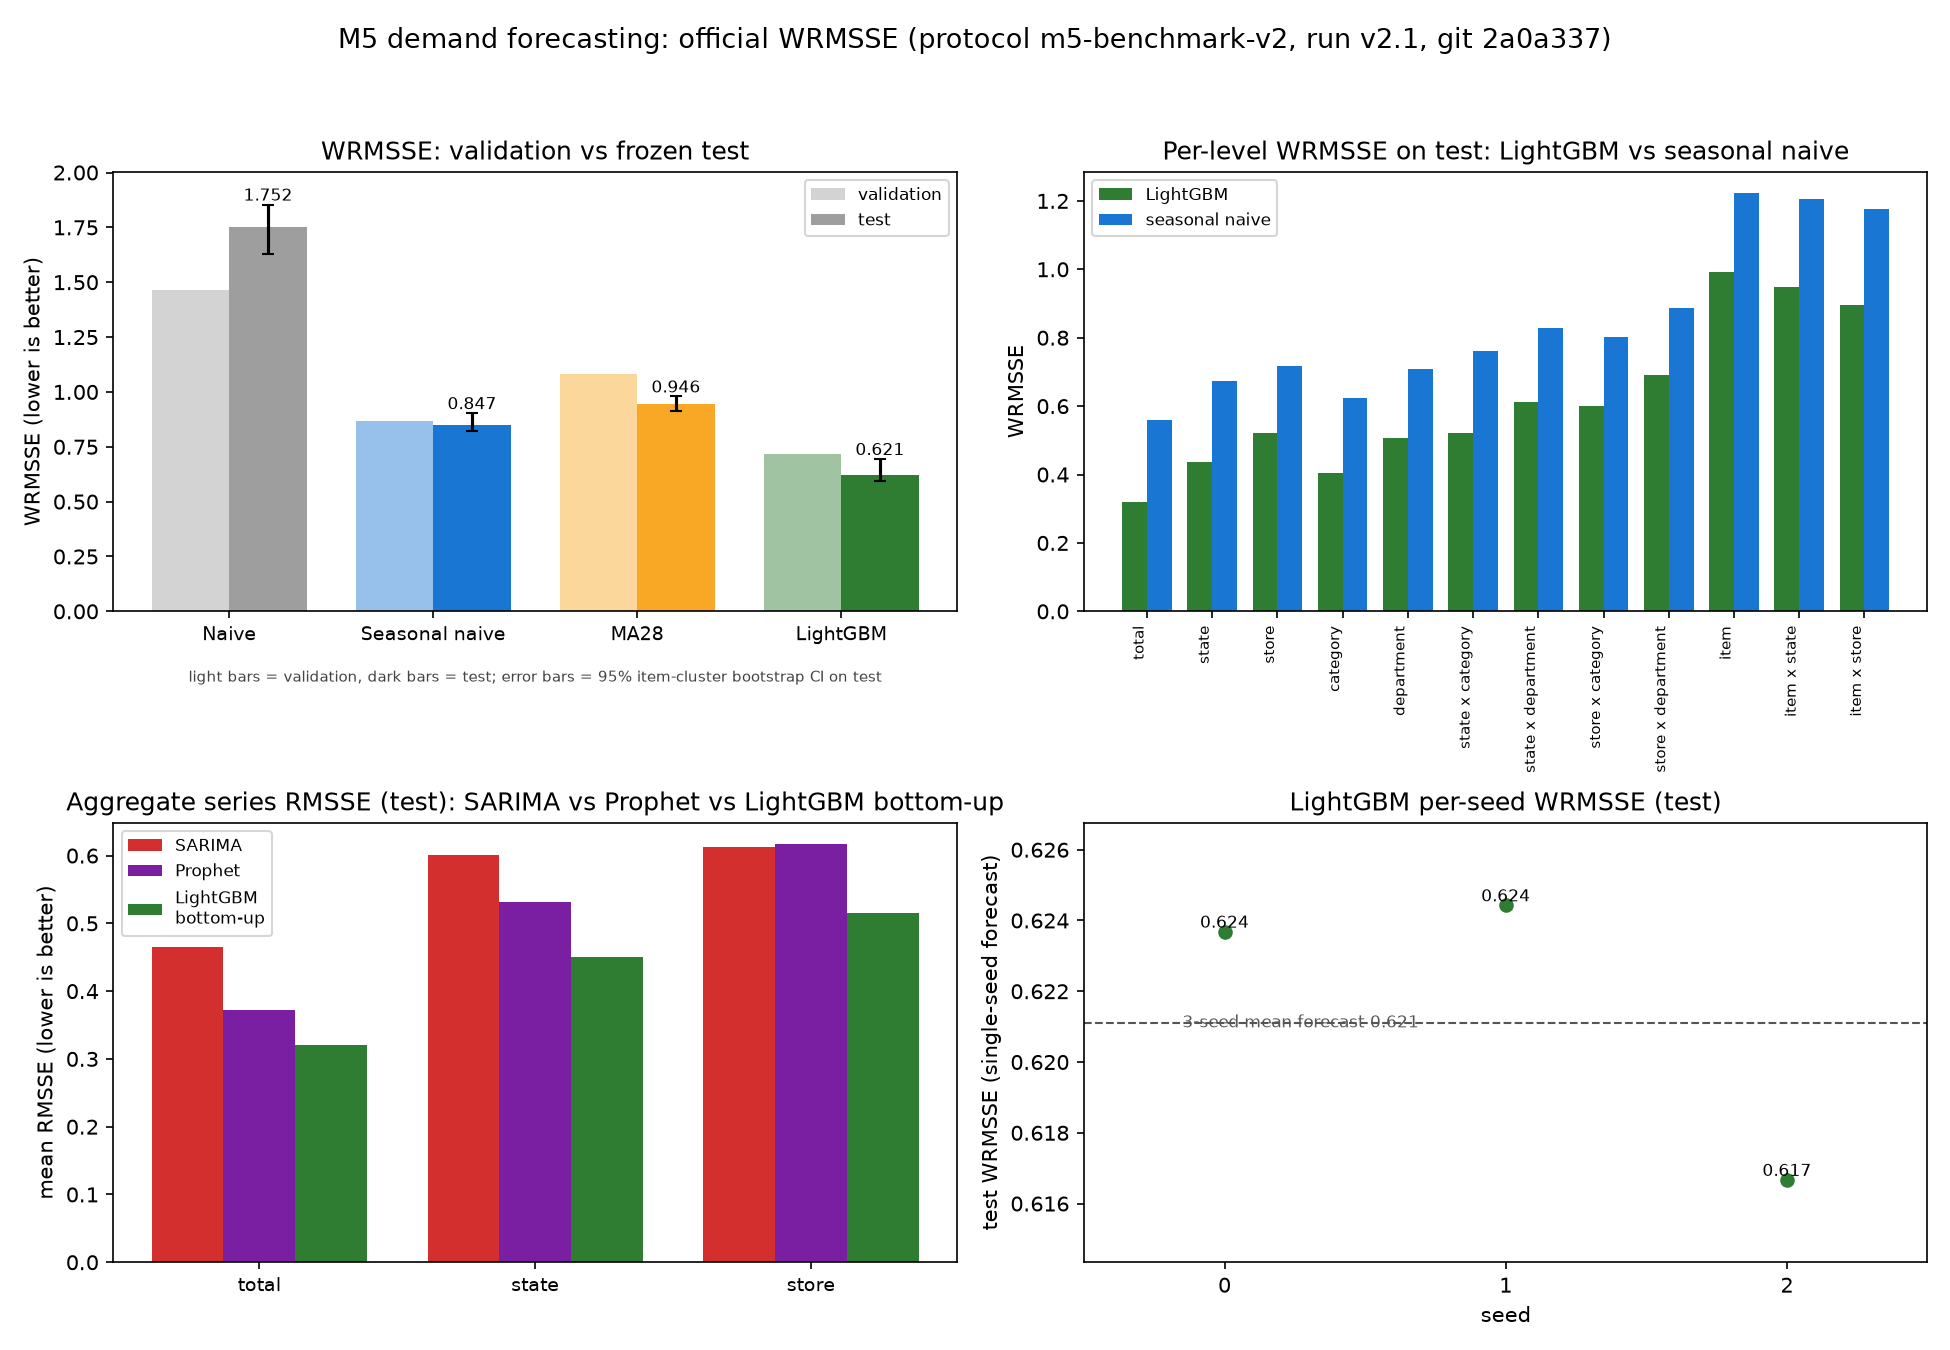
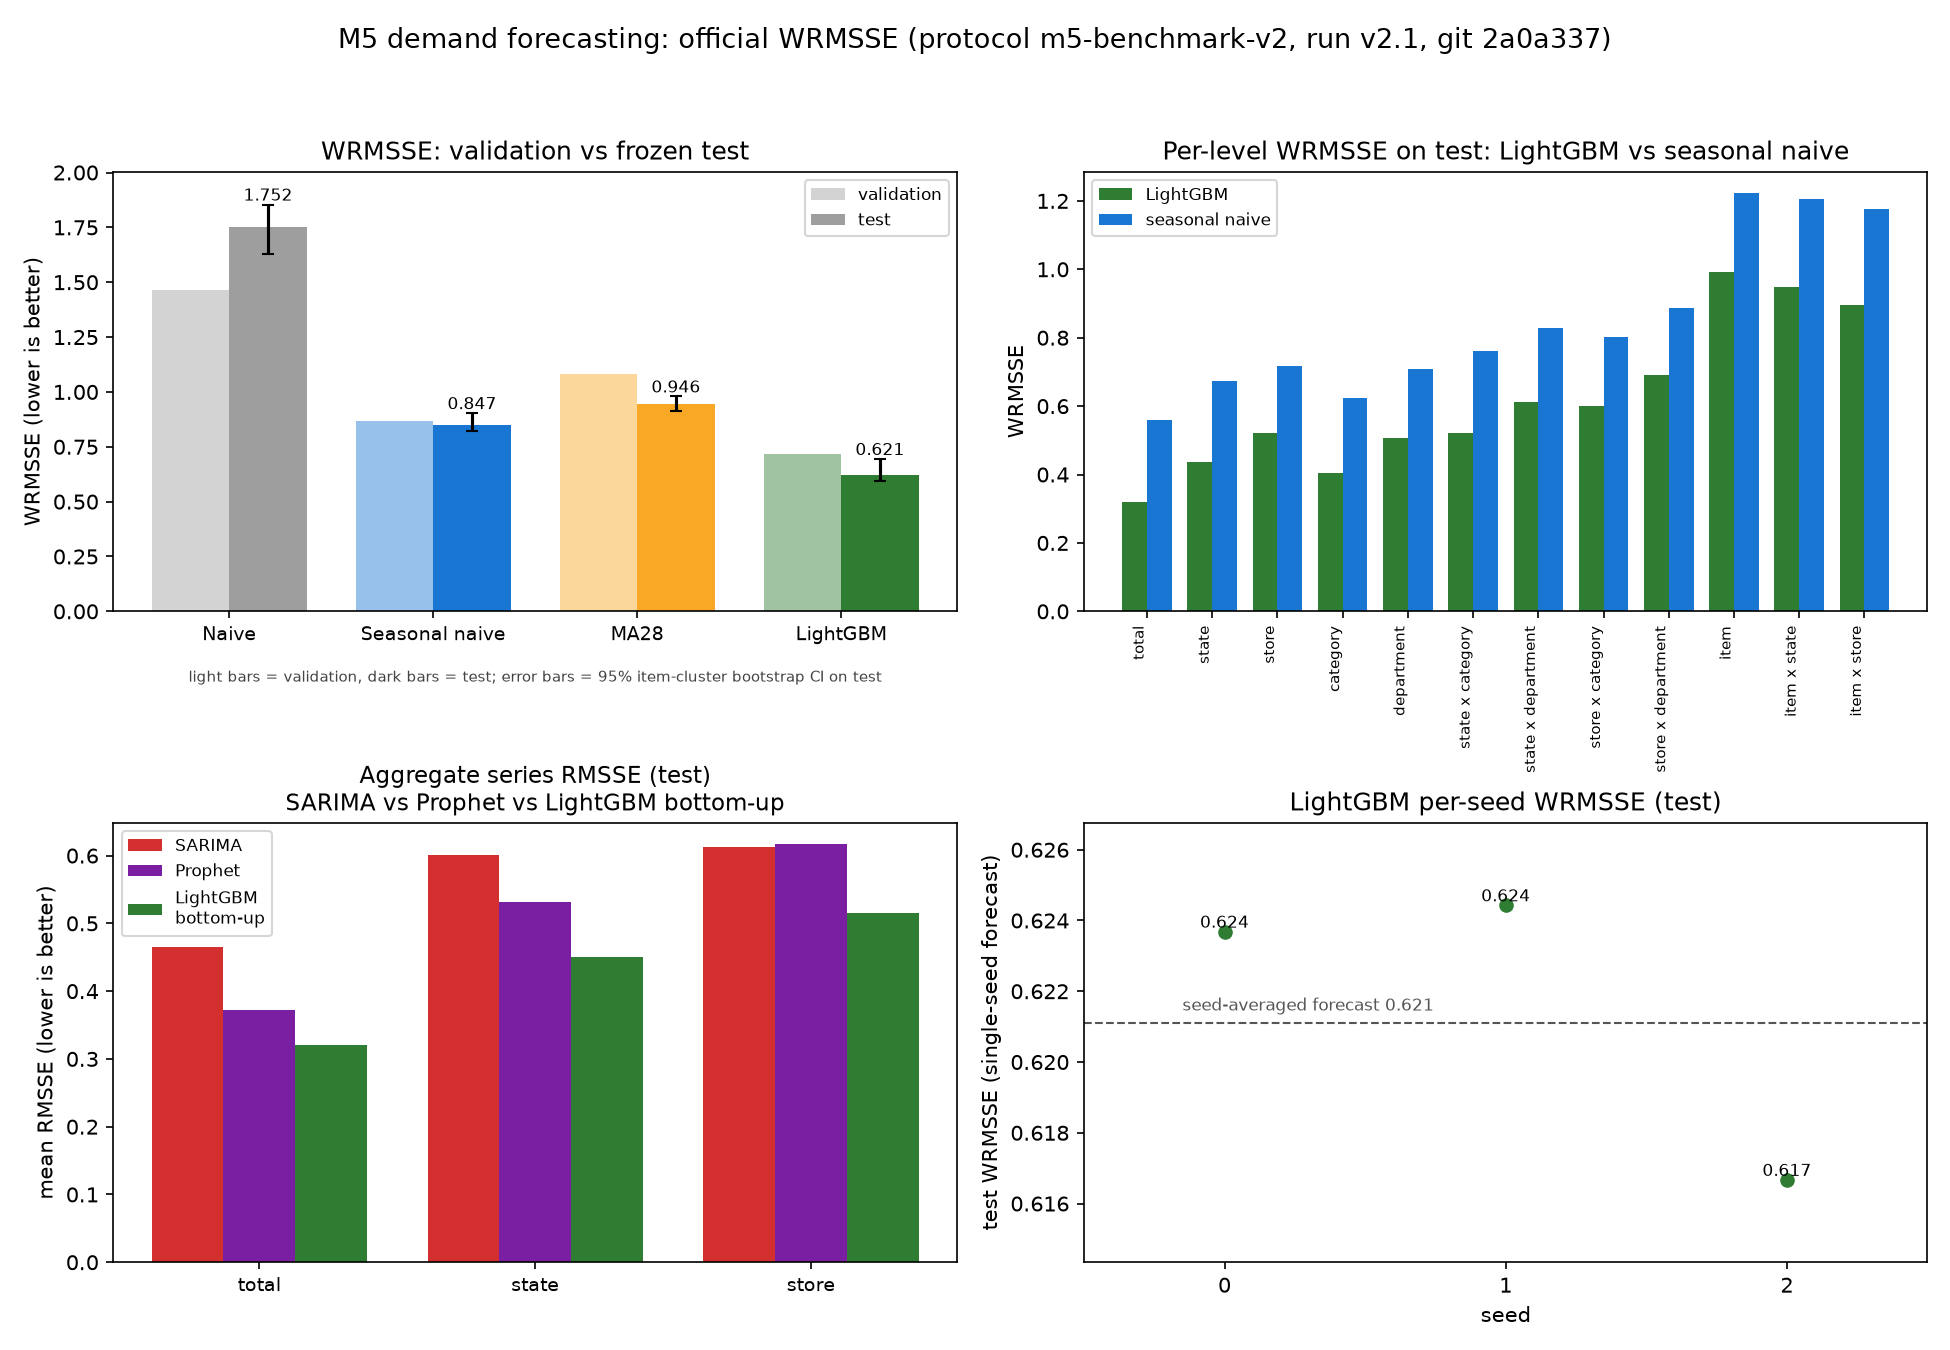
chore(figure): lift panel 4 reference label off the line

Changed region(s): [[0.0308, 0.56, 0.5231, 0.6222], [0.6154, 0.7467, 0.7077, 0.7778]]

diff --git a/scripts/render_figure.py b/scripts/render_figure.py
@@ -150,8 +150,9 @@ def main() -> None:
         ax.set_xticklabels(levels, fontsize=9)
         ax.set_ylabel("mean RMSSE (lower is better)")
         ax.set_title(
-            "Aggregate series RMSSE (test): SARIMA vs Prophet vs "
-            "LightGBM bottom-up"
+            "Aggregate series RMSSE (test)\n"
+            "SARIMA vs Prophet vs LightGBM bottom-up",
+            fontsize=11,
         )
         ax.legend(fontsize=8)
     else:
@@ -171,10 +172,15 @@ def main() -> None:
                     fontsize=8)
         mean_val = float(test["lightgbm"]["wrmsse"])
         ax.axhline(mean_val, color="#555555", ls="--", lw=1)
-        ax.text(
-            xs[0] - 0.15, mean_val,
-            f"3-seed mean forecast {mean_val:.3f}",
-            va="center", ha="left", fontsize=8, color="#555555",
+        ax.annotate(
+            f"seed-averaged forecast {mean_val:.3f}",
+            xy=(xs[0] - 0.15, mean_val),
+            xytext=(0, 4),
+            textcoords="offset points",
+            va="bottom",
+            ha="left",
+            fontsize=8,
+            color="#555555",
         )
         ax.set_xlim(min(xs) - 0.5, max(xs) + 0.5)
         ax.margins(y=0.3)
